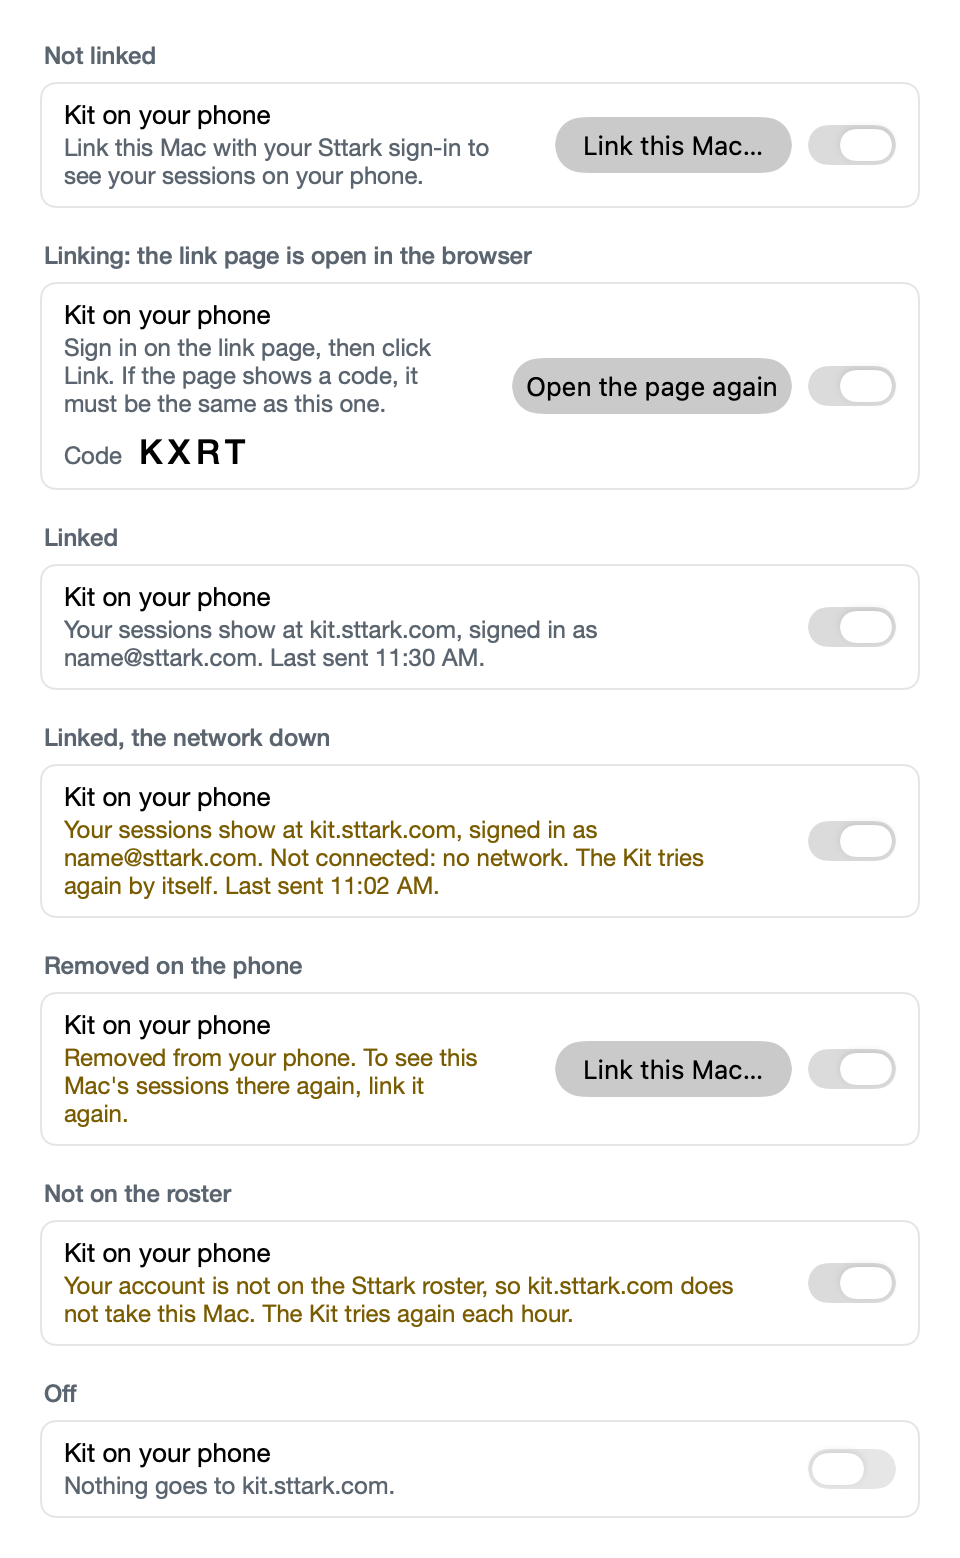
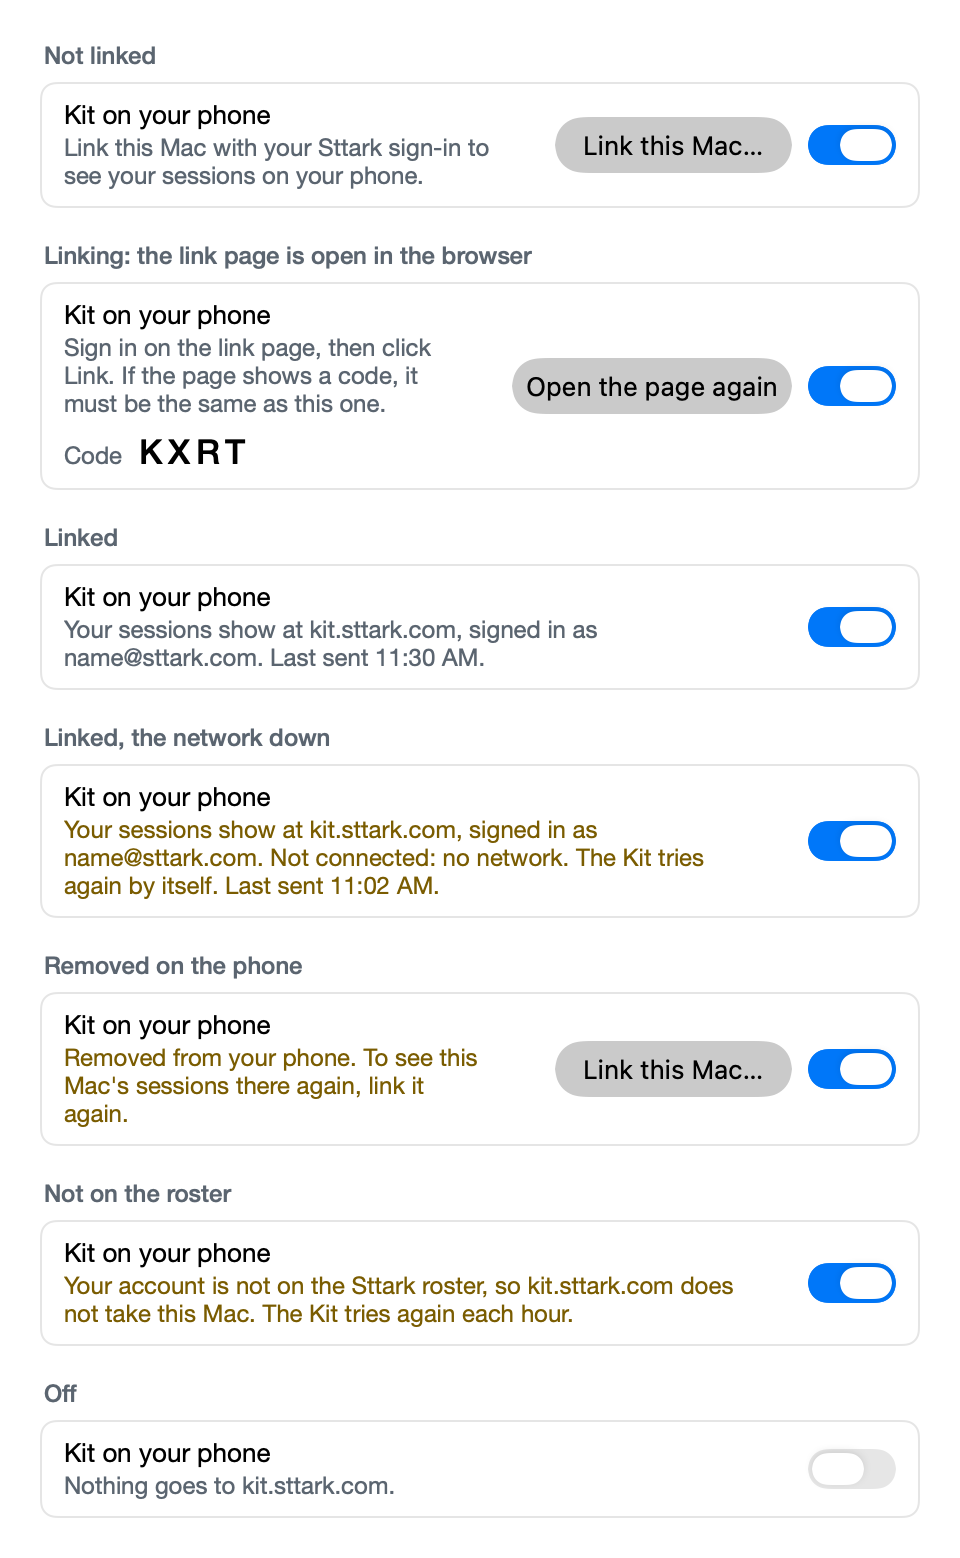
Screenshots: draw Settings' switches as they are, on in their accent color
The tool's windows are never the key window of the active app (nothing may come to
the front), so AppKit drew every switch gray and an on switch read as off. While it
draws the Settings page and the Phone box, its window now says it has the key
window's look (hasKeyAppearance), so on switches and checked boxes show in their
accent color, as the person sees them in use. The switch states themselves were
right. Other pictures are drawn as before.

diff --git a/tools/screenshot.swift b/tools/screenshot.swift
@@ -107,9 +107,13 @@ import SwiftUI
             // the archived note's picture: the selected session with Open and Bring it back
             Shot.crop(arch, NSRect(x: 840, y: 56, width: 340, height: 256),
                       to: "whats-new/archived-sessions" + (look ? "-dark" : "") + ".png")
+            ShotWindow.key = true   // Settings as the person sees it while using it: an on switch in its accent color
             model.page = .settings
+            Shot.redraw(w)
             Shot.capture(w, to: folder + "/window-settings.png")
+            ShotWindow.key = false
             model.page = .news
+            Shot.redraw(w)
             Shot.capture(w, to: folder + "/window-news.png")
             model.page = .events
             model.readEvents()
@@ -204,18 +208,28 @@ import SwiftUI
         .padding(20).frame(width: 480).background(K.card).font(K.font(13)).foregroundColor(K.ink)
         let host = NSHostingView(rootView: view)
         let size = host.fittingSize
-        let w = NSWindow(contentRect: NSRect(x: -9000, y: 0, width: size.width, height: size.height), styleMask: [.borderless], backing: .buffered, defer: false)
+        let w = ShotWindow(contentRect: NSRect(x: -9000, y: 0, width: size.width, height: size.height), styleMask: [.borderless], backing: .buffered, defer: false)
         w.appearance = NSAppearance(named: dark ? .darkAqua : .aqua)
         w.isReleasedWhenClosed = false
         w.contentView = host
         w.setFrameOrigin(NSPoint(x: -9000, y: 0))
+        ShotWindow.key = true   // each switch on or off as it really is: on in its accent color, as in the key window
+        redraw(w)
         capture(w, to: path)
+        ShotWindow.key = false
         w.close()
+    }
+
+    /// Every view of the window draws again, so a change of ShotWindow.key shows in the next capture.
+    static func redraw(_ w: NSWindow) {
+        func all(_ v: NSView) { v.needsDisplay = true; v.subviews.forEach(all) }
+        RunLoop.main.run(until: Date().addingTimeInterval(0.3))
+        if let v = w.contentView { all(v) }
     }
 
     /// The window as the app makes it, off the screen.
     static func window(_ model: KitModel) -> NSWindow {
-        let w = NSWindow(contentRect: NSRect(x: -9000, y: 0, width: 1180, height: 760),
+        let w = ShotWindow(contentRect: NSRect(x: -9000, y: 0, width: 1180, height: 760),
                          styleMask: [.titled, .closable, .miniaturizable, .resizable, .fullSizeContentView], backing: .buffered, defer: false)
         w.titleVisibility = .hidden
         w.titlebarAppearsTransparent = true
@@ -593,4 +607,13 @@ enum Draw {
         try! rep.representation(using: .png, properties: [:])!.write(to: URL(fileURLWithPath: path))
         print("wrote \(path) (\(Int(w))×\(Int(h)) pt)")
     }
+}
+
+/// The tool's windows. AppKit draws a control in its accent color (an on switch, a checked box) only in the key window
+/// of the active app, and gray in any other window, where an on switch reads as off. The tool never activates the app,
+/// since nothing may come to the front, so while `key` is set its window says it has the key window's look (AppKit's own
+/// `hasKeyAppearance`, which the controls ask when they draw) and they draw as the person sees them in use.
+final class ShotWindow: NSWindow {
+    static var key = false
+    @objc(hasKeyAppearance) func keyLook() -> Bool { ShotWindow.key }
 }
